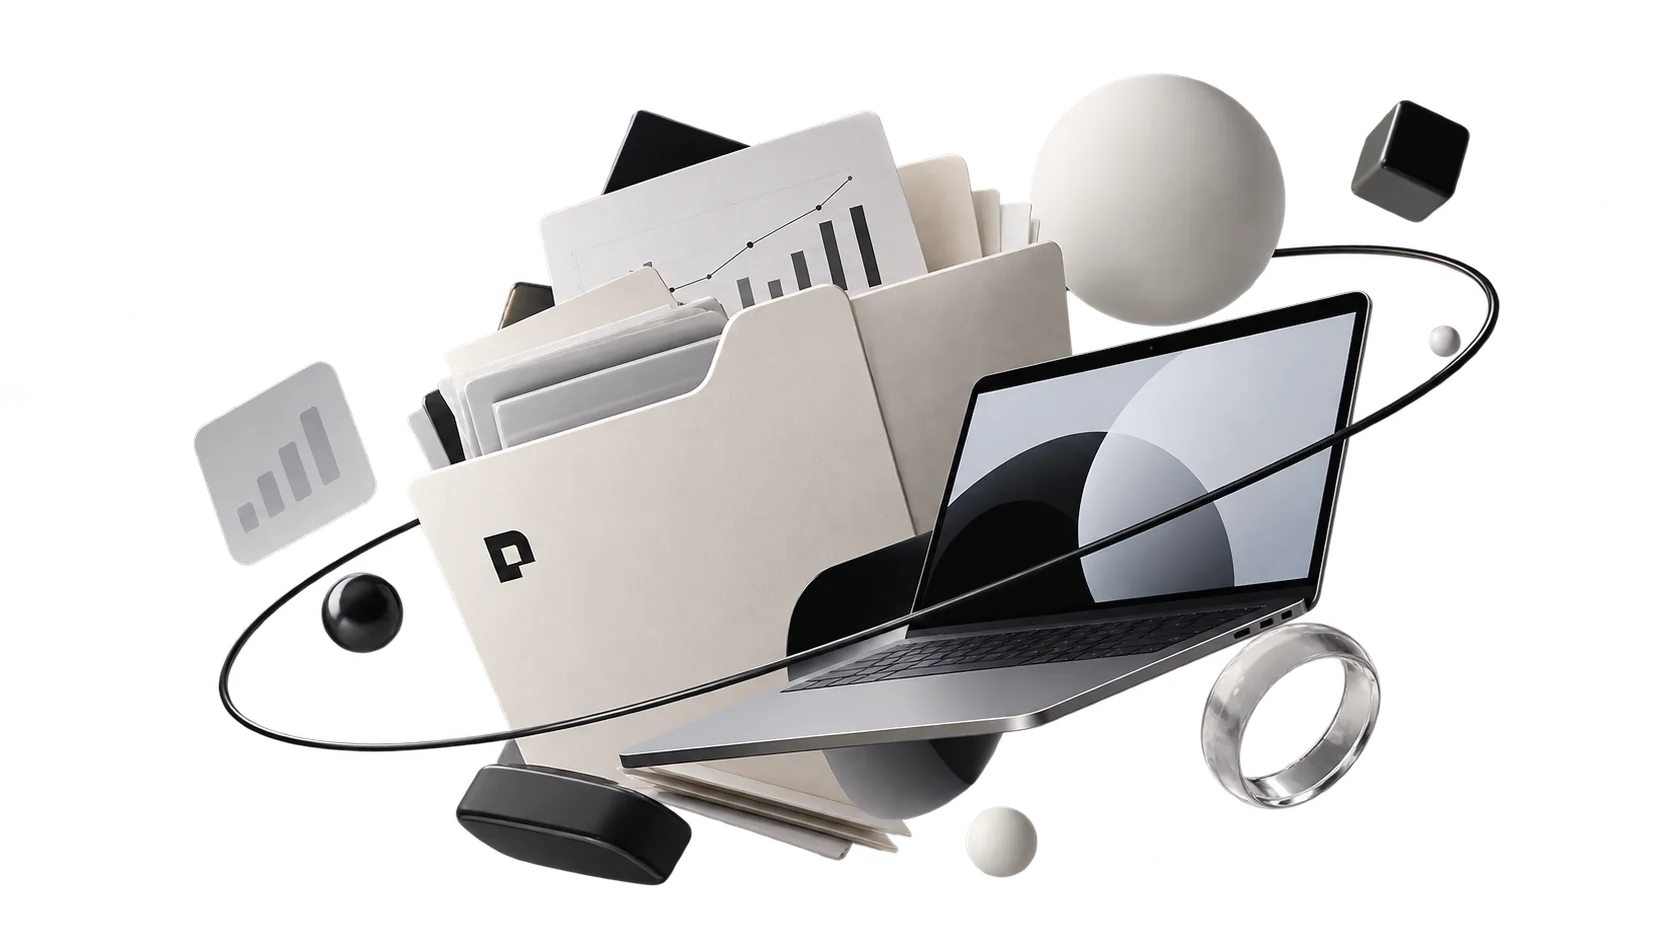
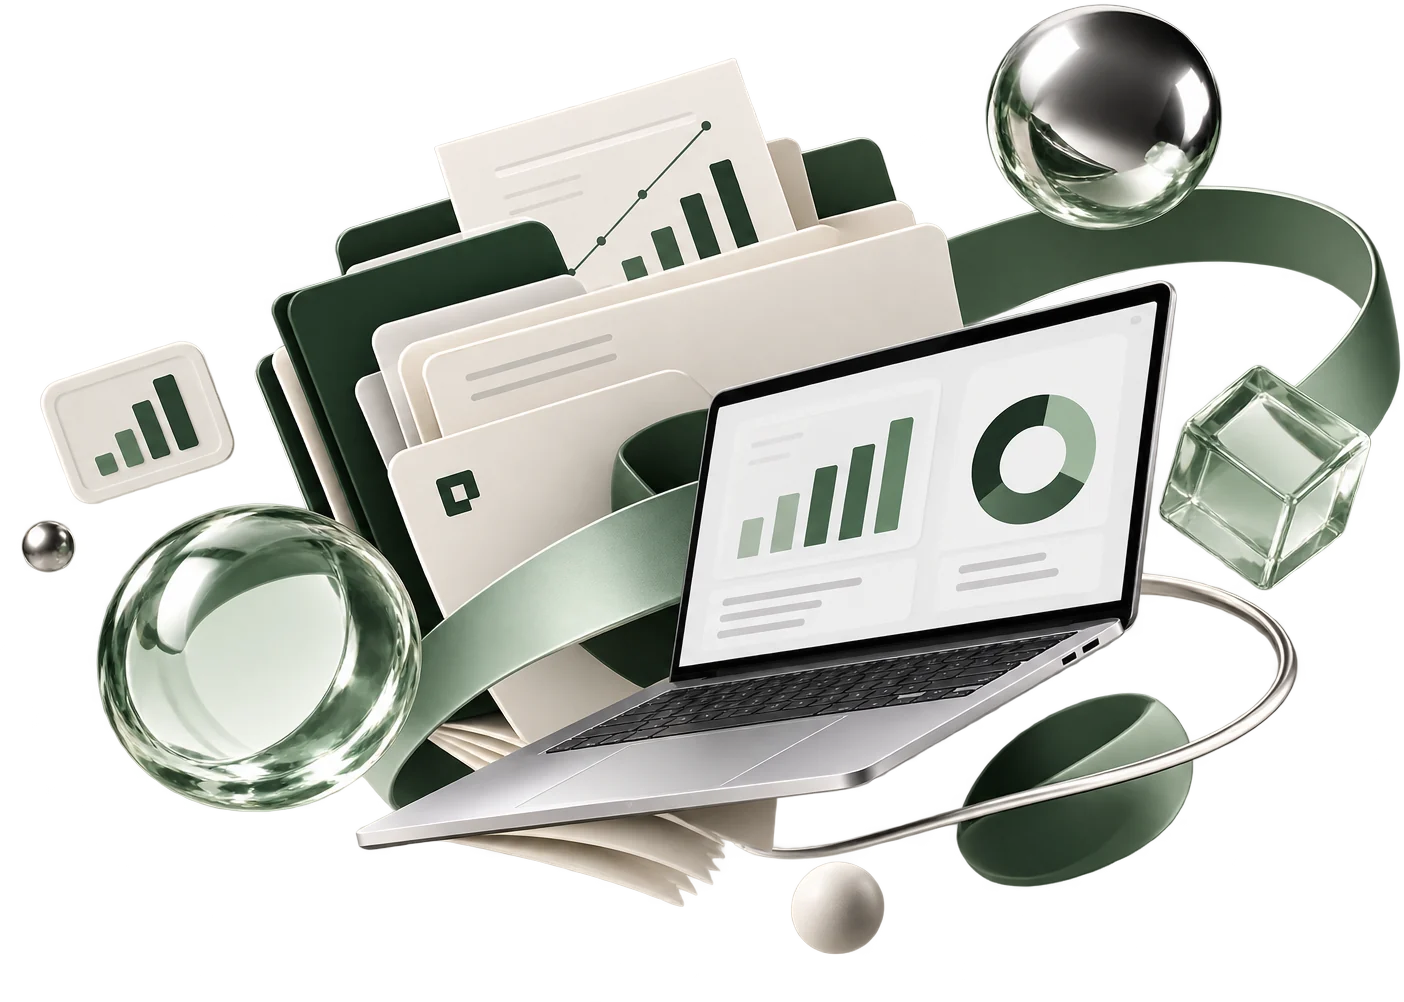
Accueil : nouvelle composition 3D verte, croix décorative retirée
L'ancienne image est conservée sous assets/hero-ancien.webp.

Claude-Session: https://claude.ai/code/session_01XcFTDSAHJ8ekT4XmkHDHx3

diff --git a/index.html b/index.html
@@ -10,7 +10,7 @@
 <link rel="preconnect" href="https://fonts.googleapis.com">
 <link rel="preconnect" href="https://fonts.gstatic.com" crossorigin>
 <link href="https://fonts.googleapis.com/css2?family=Bricolage+Grotesque:opsz,wght@12..96,400..800&family=Instrument+Sans:wght@400;500;600&display=swap" rel="stylesheet">
-<link rel="stylesheet" href="assets/style.css?v=202611171553">
+<link rel="stylesheet" href="assets/style.css?v=202611172008">
 </head>
 <body>
 <a class="skip" href="#contenu">Aller au contenu</a>
@@ -44,9 +44,8 @@
     <span class="shape shape--half" data-depth="0.11"></span>
     <span class="shape shape--quarter" data-depth="0.16"></span>
     <span class="shape shape--dots" data-depth="0.08"></span>
-    <span class="shape shape--plus" data-depth="0.2"></span>
     <span class="shape shape--sq" data-depth="0.24"></span>
-    <img class="hero__img" data-depth="0.13" src="assets/hero.webp" srcset="assets/hero-836.webp 836w, assets/hero.webp 1672w" sizes="(max-width: 820px) 110vw, 62vw" width="1672" height="941" alt="" fetchpriority="high">
+    <img class="hero__img" data-depth="0.13" src="assets/hero.webp" srcset="assets/hero-836.webp 836w, assets/hero.webp 1404w" sizes="(max-width: 820px) 100vw, 50vw" width="1404" height="1002" alt="" fetchpriority="high">
   </div>
 
   <div class="hero__copy">
@@ -63,7 +62,7 @@
     </div>
   </div>
 
-  <p class="note note--a" aria-hidden="true">Fig. 1<br>Dossiers, écran, orbite</p>
+  <p class="note note--a" aria-hidden="true">Fig. 1<br>Dossiers, écran, ruban</p>
   <p class="note note--b" aria-hidden="true">Clermont-Ferrand<br>45,78° N, 3,09° E</p>
 </section>
 
@@ -213,6 +212,6 @@
   <span>Clermont-Ferrand</span>
 </footer>
 <div class="cursor" aria-hidden="true">Voir</div>
-<script src="assets/app.js?v=202611171553" defer></script>
+<script src="assets/app.js?v=202611172008" defer></script>
 </body>
 </html>

diff --git a/assets/style.css b/assets/style.css
@@ -90,7 +90,7 @@ sup{font-family:var(--body);font-weight:500;font-size:.2em;letter-spacing:0;vert
   linear-gradient(var(--forest),var(--forest)) center/3px 100% no-repeat}
 .shape--sq{width:1.15rem;height:1.15rem;right:49vw;bottom:22%;background:var(--forest)}
 .hero__img{
-  position:absolute;right:-5vw;top:50%;width:60vw;max-width:none;height:auto;margin-top:-18vw;
+  position:absolute;right:4vw;top:50%;width:48vw;max-width:none;height:auto;margin-top:-19vw;
   filter:drop-shadow(0 2.5rem 2.5rem rgba(27,46,36,.2));will-change:transform;
 }
 .js .hero__img{opacity:0;transition:opacity 1.4s ease .15s}
@@ -294,8 +294,8 @@ sup{font-family:var(--body);font-weight:500;font-size:.2em;letter-spacing:0;vert
 }
 @media (max-width:820px){
   .hero{align-items:end;padding-top:5.5rem;padding-bottom:3rem;background-size:calc((100vw - 2 * var(--gutter)) / 3) 100%}
-  .hero__copy{margin-top:62vw}
-  .hero__img{width:118vw;right:-14vw;top:4.5rem;margin-top:0}
+  .hero__copy{margin-top:74vw}
+  .hero__img{width:100vw;right:-2vw;top:4.5rem;margin-top:0}
   .shape--disc{width:76vw;height:76vw;right:-6vw;top:5rem;margin-top:0}
   .shape--half{width:26vw;height:52vw;right:auto;left:0;top:7rem;margin-top:0}
   .shape--quarter{width:22vw;height:22vw;right:0;bottom:auto;top:calc(5rem + 52vw)}

diff --git a/projets/my-agendis.html b/projets/my-agendis.html
@@ -10,7 +10,7 @@
 <link rel="preconnect" href="https://fonts.googleapis.com">
 <link rel="preconnect" href="https://fonts.gstatic.com" crossorigin>
 <link href="https://fonts.googleapis.com/css2?family=Bricolage+Grotesque:opsz,wght@12..96,400..800&family=Instrument+Sans:wght@400;500;600&display=swap" rel="stylesheet">
-<link rel="stylesheet" href="../assets/style.css?v=202611171553">
+<link rel="stylesheet" href="../assets/style.css?v=202611172008">
 </head>
 <body>
 <a class="skip" href="#contenu">Aller au contenu</a>
@@ -120,6 +120,6 @@
   <span>Clermont-Ferrand</span>
 </footer>
 <div class="cursor" aria-hidden="true">Voir</div>
-<script src="../assets/app.js?v=202611171553" defer></script>
+<script src="../assets/app.js?v=202611172008" defer></script>
 </body>
 </html>

diff --git a/projets/my-juridis.html b/projets/my-juridis.html
@@ -10,7 +10,7 @@
 <link rel="preconnect" href="https://fonts.googleapis.com">
 <link rel="preconnect" href="https://fonts.gstatic.com" crossorigin>
 <link href="https://fonts.googleapis.com/css2?family=Bricolage+Grotesque:opsz,wght@12..96,400..800&family=Instrument+Sans:wght@400;500;600&display=swap" rel="stylesheet">
-<link rel="stylesheet" href="../assets/style.css?v=202611171553">
+<link rel="stylesheet" href="../assets/style.css?v=202611172008">
 </head>
 <body>
 <a class="skip" href="#contenu">Aller au contenu</a>
@@ -133,6 +133,6 @@
   <span>Clermont-Ferrand</span>
 </footer>
 <div class="cursor" aria-hidden="true">Voir</div>
-<script src="../assets/app.js?v=202611171553" defer></script>
+<script src="../assets/app.js?v=202611172008" defer></script>
 </body>
 </html>

diff --git a/projets/my-radar.html b/projets/my-radar.html
@@ -10,7 +10,7 @@
 <link rel="preconnect" href="https://fonts.googleapis.com">
 <link rel="preconnect" href="https://fonts.gstatic.com" crossorigin>
 <link href="https://fonts.googleapis.com/css2?family=Bricolage+Grotesque:opsz,wght@12..96,400..800&family=Instrument+Sans:wght@400;500;600&display=swap" rel="stylesheet">
-<link rel="stylesheet" href="../assets/style.css?v=202611171553">
+<link rel="stylesheet" href="../assets/style.css?v=202611172008">
 </head>
 <body>
 <a class="skip" href="#contenu">Aller au contenu</a>
@@ -127,6 +127,6 @@
   <span>Clermont-Ferrand</span>
 </footer>
 <div class="cursor" aria-hidden="true">Voir</div>
-<script src="../assets/app.js?v=202611171553" defer></script>
+<script src="../assets/app.js?v=202611172008" defer></script>
 </body>
 </html>

diff --git a/projets/plateforme-automatisation.html b/projets/plateforme-automatisation.html
@@ -10,7 +10,7 @@
 <link rel="preconnect" href="https://fonts.googleapis.com">
 <link rel="preconnect" href="https://fonts.gstatic.com" crossorigin>
 <link href="https://fonts.googleapis.com/css2?family=Bricolage+Grotesque:opsz,wght@12..96,400..800&family=Instrument+Sans:wght@400;500;600&display=swap" rel="stylesheet">
-<link rel="stylesheet" href="../assets/style.css?v=202611171553">
+<link rel="stylesheet" href="../assets/style.css?v=202611172008">
 </head>
 <body>
 <a class="skip" href="#contenu">Aller au contenu</a>
@@ -118,6 +118,6 @@
   <span>Clermont-Ferrand</span>
 </footer>
 <div class="cursor" aria-hidden="true">Voir</div>
-<script src="../assets/app.js?v=202611171553" defer></script>
+<script src="../assets/app.js?v=202611172008" defer></script>
 </body>
 </html>

diff --git a/projets/rapport-quotidien.html b/projets/rapport-quotidien.html
@@ -10,7 +10,7 @@
 <link rel="preconnect" href="https://fonts.googleapis.com">
 <link rel="preconnect" href="https://fonts.gstatic.com" crossorigin>
 <link href="https://fonts.googleapis.com/css2?family=Bricolage+Grotesque:opsz,wght@12..96,400..800&family=Instrument+Sans:wght@400;500;600&display=swap" rel="stylesheet">
-<link rel="stylesheet" href="../assets/style.css?v=202611171553">
+<link rel="stylesheet" href="../assets/style.css?v=202611172008">
 </head>
 <body>
 <a class="skip" href="#contenu">Aller au contenu</a>
@@ -118,6 +118,6 @@
   <span>Clermont-Ferrand</span>
 </footer>
 <div class="cursor" aria-hidden="true">Voir</div>
-<script src="../assets/app.js?v=202611171553" defer></script>
+<script src="../assets/app.js?v=202611172008" defer></script>
 </body>
 </html>

diff --git a/projets.html b/projets.html
@@ -10,7 +10,7 @@
 <link rel="preconnect" href="https://fonts.googleapis.com">
 <link rel="preconnect" href="https://fonts.gstatic.com" crossorigin>
 <link href="https://fonts.googleapis.com/css2?family=Bricolage+Grotesque:opsz,wght@12..96,400..800&family=Instrument+Sans:wght@400;500;600&display=swap" rel="stylesheet">
-<link rel="stylesheet" href="assets/style.css?v=202611171553">
+<link rel="stylesheet" href="assets/style.css?v=202611172008">
 </head>
 <body>
 <a class="skip" href="#contenu">Aller au contenu</a>
@@ -100,6 +100,6 @@
   <span>Clermont-Ferrand</span>
 </footer>
 <div class="cursor" aria-hidden="true">Voir</div>
-<script src="assets/app.js?v=202611171553" defer></script>
+<script src="assets/app.js?v=202611172008" defer></script>
 </body>
 </html>

diff --git a/README.md b/README.md
@@ -9,5 +9,6 @@ Site statique, sans framework ni étape de build.
 - `assets/style.css` : feuille de style commune
 - `assets/app.js` : apparitions au défilement, parallaxe, curseur
 - `assets/hero.webp` : composition 3D de l'accueil
+- `assets/hero-ancien.webp` : ancienne composition de l'accueil, gardée de côté (pour la remettre : la renommer en `hero.webp`, et `hero-ancien-836.webp` en `hero-836.webp`, puis ajuster largeur et hauteur de l'image dans `index.html`)
 
 Pour le voir en local, ouvrir `index.html` dans un navigateur.
